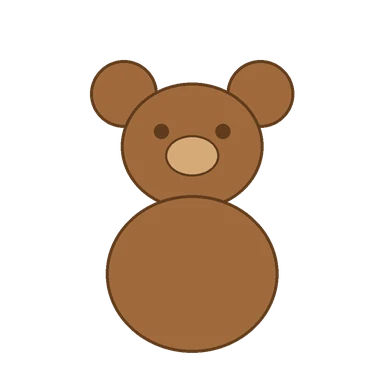
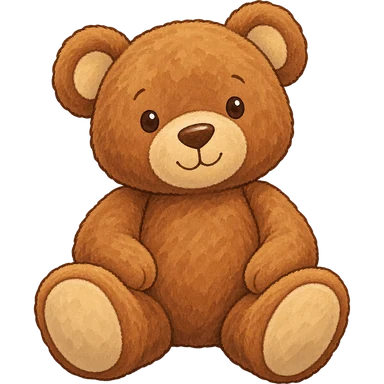
CI-11b: Lote A recibido; C1-U02 «Ver en la oscuridad» se abre con su arte real
Claude-Session: https://claude.ai/code/session_012AzoXWFTd77uNdcQJtwQRj

diff --git a/apps/mobile/tests/ciencia-art.test.ts b/apps/mobile/tests/ciencia-art.test.ts
@@ -1,7 +1,9 @@
 import { describe, expect, it } from 'vitest';
 
-/** Lote A (C1-U02): arte provisional dibujado con código hasta que lleguen las imágenes de Victor. */
-const PROVISIONAL = ['bg/scene_c1_u02.webp', 'covers/cover_c1_u02.webp', 'props/prop_caja_observacion.webp', 'props/prop_linterna.webp', 'props/prop_objeto_osito.webp', 'props/prop_objeto_pelota.webp', 'props/prop_objeto_taza.webp'];
+/** Arte PROVISIONAL (dibujado con código) todavía conectado: vacío cuando llegaron todos los lotes de las unidades abiertas. */
+const PROVISIONAL: string[] = [];
+/** Un manifiesto por tanda/lote recibido. */
+const MANIFESTS = ['manifest-tanda-1.json', 'manifest-tanda-2a.json'];
 
 describe('arte de Ciencia', () => {
   it('cada archivo que art.ts referencia existe, y el manifiesto lo describe', async () => {
@@ -10,23 +12,27 @@ describe('arte de Ciencia', () => {
     const dir = new URL('../src/subjects/ciencia/', import.meta.url);
     const art = readFileSync(new URL('art.ts', dir), 'utf8');
     const files = [...art.matchAll(/require\('([^']+)'\)/g)].map((m) => m[1]);
-    // 18 de la Tanda 1 (la escena de la ladera es solo horizontal) + las provisionales de la Tanda 2 que ya están conectadas.
-    expect(files.length).toBe(18 + PROVISIONAL.length);
+    // 18 de la Tanda 1 (la escena de la ladera es solo horizontal) + 7 del Lote A de la Tanda 2.
+    expect(files.length).toBeGreaterThanOrEqual(25);
     for (const f of files) expect(existsSync(new URL(f, dir)), f).toBe(true);
-    const manifest = JSON.parse(readFileSync(new URL('../../../../../docs/design/ciencia/arte/manifest-tanda-1.json', dir), 'utf8')) as { count: number; assets: { output: string; outputBytes: number }[] };
-    expect(manifest.count).toBe(18);
-    // Todo lo que se convirtió está conectado.
-    for (const a of manifest.assets) expect(files.some((f) => f.endsWith(a.output.replace('apps/mobile/assets/ciencia/', ''))), a.output).toBe(true);
-    // Peso razonable (brief: < 350 KB por imagen).
-    for (const a of manifest.assets) expect(a.outputBytes, a.output).toBeLessThan(350 * 1024);
+    let total = 0;
+    for (const name of MANIFESTS) {
+      const manifest = JSON.parse(readFileSync(new URL(`../../../../../docs/design/ciencia/arte/${name}`, dir), 'utf8')) as { count: number; assets: { output: string; outputBytes: number }[] };
+      total += manifest.count;
+      // Todo lo que se convirtió está conectado.
+      for (const a of manifest.assets) expect(files.some((f) => f.endsWith(a.output.replace('apps/mobile/assets/ciencia/', ''))), a.output).toBe(true);
+      // Peso razonable (brief: < 350 KB por imagen).
+      for (const a of manifest.assets) expect(a.outputBytes, a.output).toBeLessThan(350 * 1024);
+    }
+    expect(total).toBe(files.length - PROVISIONAL.length);
   });
 
-  it('una unidad con arte provisional NO está lista para el niño (solo se ve en un build de demo)', async () => {
+  it('solo se abren al niño las unidades con su arte recibido (una unidad con arte provisional queda en false)', async () => {
     // @ts-expect-error -- la app no carga los tipos de Node; esta prueba corre en Node (vitest).
     const { readFileSync } = (await import('node:fs')) as { readFileSync: (u: URL, e: string) => string };
     const art = readFileSync(new URL('../src/subjects/ciencia/art.ts', import.meta.url), 'utf8');
     for (const f of PROVISIONAL) expect(art).toContain(f.replace(/^[a-z]+\//, ''));
-    expect(art).toMatch(/'C1-U02': false/);
+    expect(art).toMatch(/'C1-U02': true/);
     expect(art).toMatch(/'C4-U06': true/);
   });
 });

diff --git a/apps/mobile/src/subjects/ciencia/art.ts b/apps/mobile/src/subjects/ciencia/art.ts
@@ -40,7 +40,7 @@ export const CIENCIA_PROPS = {
   piedritas: require('../../../assets/ciencia/props/prop_piedritas.webp'),
 } satisfies Record<string, ImageSourcePropType>;
 
-/** Arte de la unidad C1-U02 (Lote A del pedido; hoy PROVISIONAL hasta que lleguen las imágenes de Victor). */
+/** Arte de la unidad C1-U02 (Lote A del pedido, recibido: `docs/design/ciencia/arte/manifest-tanda-2a.json`). */
 export const CIENCIA_LUZ = {
   caja: require('../../../assets/ciencia/props/prop_caja_observacion.webp'),
   linterna: require('../../../assets/ciencia/props/prop_linterna.webp'),
@@ -67,7 +67,7 @@ export const MAYA: Record<MayaPose, { source: ImageSourcePropType; aspect: numbe
  */
 export const UNIT_ART_READY: Record<string, boolean> = {
   'C4-U06': true,
-  'C1-U02': false, // arte provisional: espera el Lote A
+  'C1-U02': true, // Lote A recibido (manifest-tanda-2a)
 };
 
 /** Un build de demo (`EXPO_PUBLIC_DEMO=1`) deja abrir las unidades con arte provisional, para probarlas antes de que llegue. */

diff --git a/packages/ui-native/src/components/ciencia/light-box.tsx b/packages/ui-native/src/components/ciencia/light-box.tsx
@@ -21,7 +21,8 @@ interface LightBoxProps {
   interior?: { x: number; y: number; w: number; h: number };
 }
 
-const INTERIOR = { x: 0.13, y: 0.22, w: 0.74, h: 0.58 };
+/** Interior de `prop_caja_observacion` (la caja es ancha: ocupa todo el ancho y el 66 % del alto del cuadrado). */
+const INTERIOR = { x: 0.045, y: 0.275, w: 0.91, h: 0.56 };
 
 /**
  * La caja de observación de C1-U02: un objeto adentro y una linterna al lado. Con la luz apagada el interior se oscurece y el

diff --git a/docs/handoff/ciencia.md b/docs/handoff/ciencia.md
@@ -145,3 +145,14 @@ C1 → C2 → C6 → C3 → C5 (de menos a más trabajo nuevo; spec §6).
 **Siguiente:** CI-12 C2-U02 (probador de materiales: 4 materiales cuadrados iguales, «no pasó / pasó un poco / pasó mucha»,
 tabla de resultados con `ResultTable`). Decisiones de diseño ya tomadas para que el arte case: 4 materiales (papel absorbente,
 tela, plástico, cartón), vaso de agua compartido con C5 y C6, bandeja con pico.
+
+
+## Actualización CI-11b (2026-10-16): Lote A recibido, C1-U02 abierta
+- Victor mandó el Lote A (7 imágenes: portada, escena, caja, linterna, osito, pelota, taza; sin texto, objetos con fondo
+  transparente limpio, caja con interior beige liso). Convertidas con `python3 -I scripts/ciencia-arte.py <carpeta> tanda-2a`
+  (manifiesto `docs/design/ciencia/arte/manifest-tanda-2a.json`, 240 KB en total) y conectadas en `art.ts`.
+- `LightBox`: el interior de la caja es `{x:.045,y:.275,w:.91,h:.56}` (la caja es ancha y ocupa 66 % del alto del cuadrado).
+- `UNIT_ART_READY['C1-U02'] = true`: C1-U02 ya se abre sin build de demo. Verificada en el navegador (tableta horizontal y vertical,
+  teléfono vertical). Un lote nuevo = un manifiesto nuevo (`tanda-2b`, `2c`…) que se suma a `MANIFESTS` en `tests/ciencia-art.test.ts`.
+- Los lotes B–E siguen en preparación (Victor los está generando). El arte provisional (`scripts/ciencia-arte-provisional.py`) solo se
+  usa para probar una unidad mientras llega su lote; nunca se deja conectado con la unidad abierta.

diff --git a/docs/ROADMAP.md b/docs/ROADMAP.md
@@ -98,7 +98,7 @@ Regla: tareas de ~30–45 min. Si una crece, se divide aquí (`F2-04a`, `F2-04b`
 | CI-08 | Revisión de un maestro (estándares: borrador) | ⬜ | – | |
 | CI-09 | Pedido de imágenes de la Tanda 2 (5 unidades piloto, 41 imágenes en 5 lotes A–E) | ✅ | A | `docs/design/ciencia/PEDIDO-IMAGENES.md`; espera que Victor las genere |
 | CI-10 | Reproductor de sesión por «familias» de laboratorio (erosión, mapa, escena, luz) y catálogo de las 48 unidades | ✅ | A | `subjects/ciencia/families/`, `catalog-screen.tsx`; una unidad nueva solo agrega su familia |
-| CI-11 | C1-U02 «Ver en la oscuridad»: modelo de la luz, unidad en JSON validado, caja de luz y tabla de observaciones | ✅ contenido y pantallas · ⏳ arte | A | `UNIT_ART_READY['C1-U02']=false` hasta el Lote A (hoy arte provisional, solo en build de demo) |
+| CI-11 | C1-U02 «Ver en la oscuridad»: modelo de la luz, unidad en JSON validado, caja de luz y tabla de observaciones | ✅ | A | Lote A recibido (7 imágenes, `manifest-tanda-2a.json`); `UNIT_ART_READY['C1-U02']=true`; verificada en tableta y teléfono |
 | CI-12 | C2-U02 «Un techo para el muñeco» (probador de materiales) | ⬜ | A | espera Lote B |
 | CI-13 | C6-U04 «Energía térmica» (probador + constructor de modelos + mesa de datos) | ⬜ | A | espera Lote C |
 | CI-14 | C3-U06 «Interacciones sin tocar» (fuerzas e imanes) | ⬜ | A | espera Lote D |

diff --git a/docs/log/ciencia.md b/docs/log/ciencia.md
@@ -68,3 +68,7 @@ Se agrega al final, una entrada por sesión (formato corto, como `docs/log/SESSI
 - C1-U02 completa en contenido y pantallas; el arte es provisional hasta el Lote A. 12 pruebas nuevas de la unidad + 3 del catálogo.
 - Decisión de diseño: dos ideas (`luz.ver`, `objeto.sigue`) en tres casos (osito, pelota, «armario» = taza) en vez de la idea de
   «cambiar una sola cosa», que no es de 1.º (1-PS4-2 pide ver que un objeto solo se ve con luz).
+
+## 2026-10-16 · CI-11b: Lote A recibido
+- Se revisaron las 7 imágenes (sin texto, alfa limpio, caja ancha con interior liso), se convirtieron y se conectaron; se ajustó el
+  interior de la caja y C1-U02 quedó abierta (`UNIT_ART_READY=true`). Prueba de arte: un manifiesto por lote.
